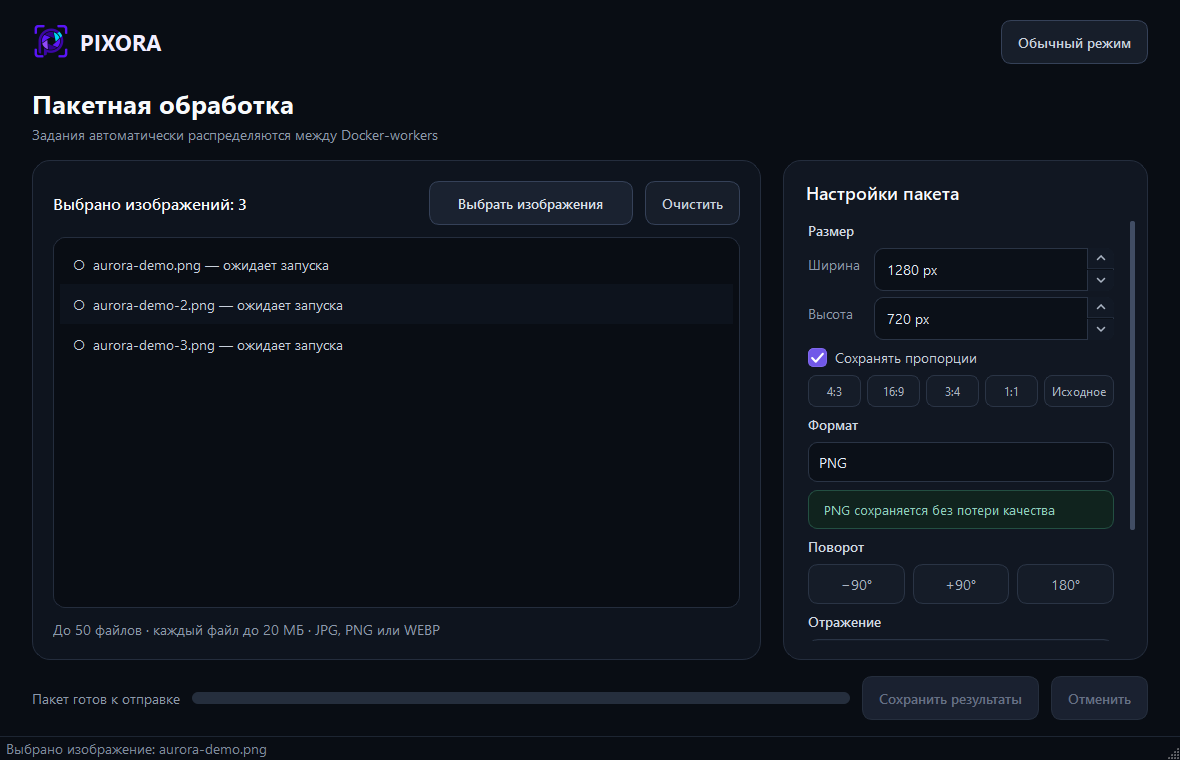
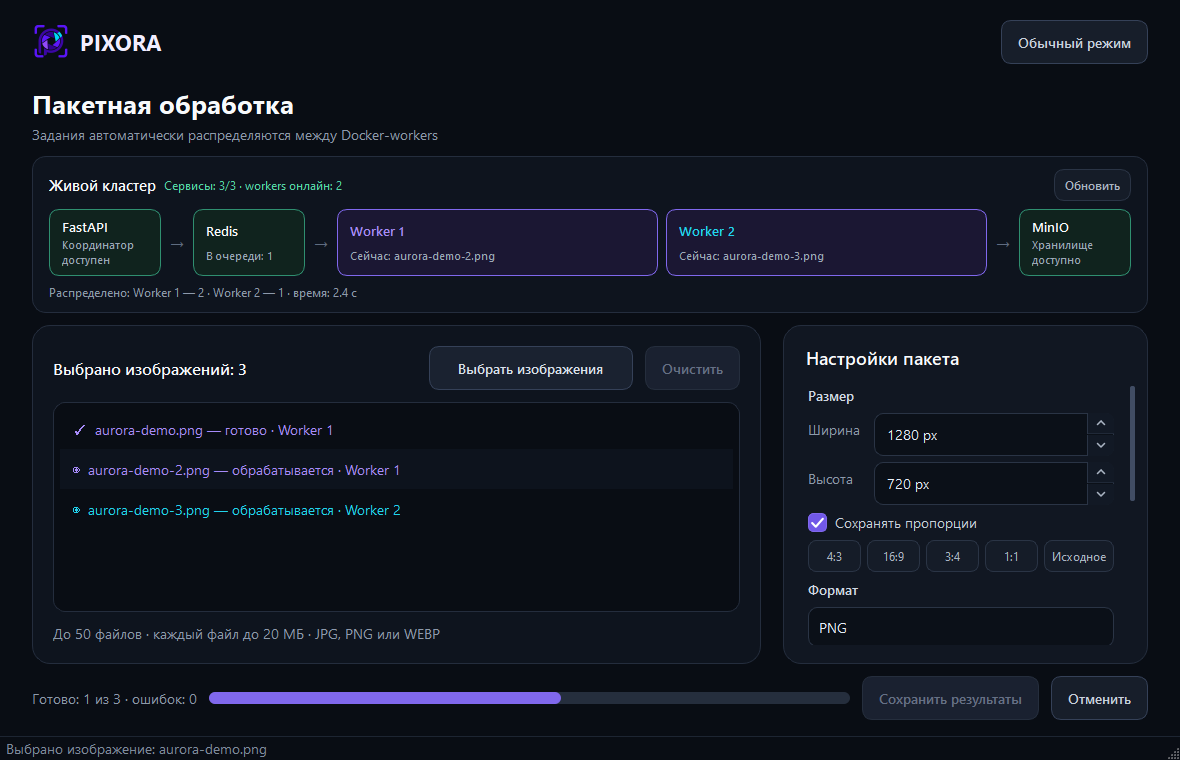
docs: добавил наглядную демонстрацию распределения

diff --git a/scripts/capture_screenshots.py b/scripts/capture_screenshots.py
@@ -3,6 +3,7 @@
 from pathlib import Path
 import sys
 from tempfile import TemporaryDirectory
+from time import monotonic
 
 from PIL import Image, ImageDraw, ImageOps
 from PySide6.QtWidgets import QApplication
@@ -96,6 +97,73 @@ def main() -> int:
             ).save(batch_source, format="PNG")
             batch_sources.append(batch_source)
         window.batch_panel.set_files(batch_sources)
+        window.batch_panel.set_batch_created(
+            {
+                "jobs": [
+                    {"job_id": "job-1"},
+                    {"job_id": "job-2"},
+                    {"job_id": "job-3"},
+                ]
+            }
+        )
+        window.batch_panel.set_processing(True)
+        window.batch_panel._started_at = monotonic() - 2.4
+        window.batch_panel.update_cluster_status(
+            {
+                "api": "online",
+                "redis": "online",
+                "minio": "online",
+                "queue_depth": 1,
+                "workers": [
+                    {
+                        "worker_id": "worker@container-a",
+                        "status": "busy",
+                        "active_tasks": 1,
+                        "active_job_ids": ["job-2"],
+                    },
+                    {
+                        "worker_id": "worker@container-b",
+                        "status": "busy",
+                        "active_tasks": 1,
+                        "active_job_ids": ["job-3"],
+                    },
+                ],
+            }
+        )
+        window.batch_panel.update_batch_status(
+            {
+                "total": 3,
+                "pending": 0,
+                "processing": 2,
+                "completed": 1,
+                "failed": 0,
+                "cancelled": 0,
+                "progress": 55,
+                "jobs": [
+                    {
+                        "job_id": "job-1",
+                        "filename": "aurora-demo.png",
+                        "status": "SUCCESS",
+                        "progress": 100,
+                        "worker": "worker@container-a",
+                    },
+                    {
+                        "job_id": "job-2",
+                        "filename": "aurora-demo-2.png",
+                        "status": "PROCESSING",
+                        "progress": 45,
+                        "worker": "worker@container-a",
+                    },
+                    {
+                        "job_id": "job-3",
+                        "filename": "aurora-demo-3.png",
+                        "status": "PROCESSING",
+                        "progress": 20,
+                        "worker": "worker@container-b",
+                    },
+                ],
+            }
+        )
         window.content_stack.setCurrentWidget(window.batch_panel)
         window.batch_mode_button.setText("Обычный режим")
         application.processEvents()

diff --git a/docs/distributed-processing.md b/docs/distributed-processing.md
@@ -13,6 +13,24 @@
 Каждое изображение является отдельной вычислительной задачей. Поэтому разные
 изображения одного пакета могут одновременно обрабатываться разными workers.
 
+## Что видно в приложении
+
+Экран пакетной обработки содержит живую схему
+`FastAPI → Redis → Workers → MinIO`. Данные берутся из работающего кластера:
+
+- зелёные карточки показывают доступные сервисы и свободные workers;
+- фиолетовая карточка означает, что worker выполняет задачу;
+- красная карточка означает потерю связи с сервисом или worker;
+- Redis показывает количество задач, ожидающих в очереди;
+- рядом с каждым файлом отображается назначенный `Worker 1`, `Worker 2` и так
+  далее;
+- после завершения показываются количество файлов на каждом worker и общее
+  время пакета.
+
+В подсказке карточки worker сохраняется его настоящий Celery-идентификатор.
+Поэтому понятное визуальное имя не скрывает техническое доказательство того,
+что задачи выполнялись разными контейнерами.
+
 ## Запуск локального кластера
 
 Из корня проекта:
@@ -86,6 +104,7 @@ Desktop-приложение по умолчанию обращается к
 ## HTTP API
 
 - `GET /health` — готовность Redis и MinIO;
+- `GET /api/v1/cluster` — состояние сервисов, очередь и активные workers;
 - `POST /api/v1/batches` — загрузка пакета и постановка задач в очередь;
 - `GET /api/v1/batches/{batch_id}` — общий прогресс и состояния файлов;
 - `POST /api/v1/batches/{batch_id}/cancel` — отмена незавершённых задач;
@@ -94,6 +113,17 @@ Desktop-приложение по умолчанию обращается к
 
 В ответе успешной задачи есть поле `worker`. Разные значения этого поля для
 одного пакета являются наглядным подтверждением распределения вычислений.
+
+## Демонстрация на защите
+
+1. Запустить кластер и убедиться, что в «Живом кластере» доступны два workers.
+2. Выбрать не менее восьми изображений и запустить пакетную обработку.
+3. Показать, как карточки workers переходят в состояние «занят», а строки
+   файлов получают разные назначения и цвета.
+4. После завершения показать итоговое распределение файлов между узлами.
+5. Для демонстрации отказоустойчивости остановить один worker и обновить
+   монитор: его карточка станет красной, а доступный узел продолжит забирать
+   задания из Redis.
 
 Отмена хранится в Redis, поэтому ожидающая задача останется отменённой даже в
 том случае, если worker был выключен во время запроса и подключился позднее.

diff --git a/README.md b/README.md
@@ -28,7 +28,8 @@
 - Drag & Drop и выбор файла через проводник;
 - предпросмотр результата перед сохранением;
 - обработка без зависания интерфейса;
-- пакетная обработка через FastAPI, Redis, Celery и несколько Docker-workers.
+- пакетная обработка через FastAPI, Redis, Celery и несколько Docker-workers;
+- живой монитор сервисов, очереди и распределения файлов между workers.
 
 ## Скачать и запустить
 
@@ -77,8 +78,11 @@ python main.py
 ```
 
 Каждое изображение становится отдельной задачей Celery, а Redis распределяет
-задачи между двумя независимыми workers. Подробная схема, API и масштабирование
-описаны в [документации распределённой обработки](docs/distributed-processing.md).
+задачи между двумя независимыми workers. Экран «Живой кластер» показывает
+доступность FastAPI, Redis и MinIO, глубину очереди, занятость каждого worker и
+итоговое число обработанных им файлов. Это позволяет наблюдать распределение
+вычислений прямо в приложении. Подробная схема, API и масштабирование описаны в
+[документации распределённой обработки](docs/distributed-processing.md).
 
 ![Распределённая пакетная обработка](docs/screenshots/pixora-batch.png)
 

diff --git a/CHANGELOG.md b/CHANGELOG.md
@@ -4,6 +4,8 @@
 
 - добавлена распределённая пакетная обработка через FastAPI, Redis, Celery и MinIO;
 - задания распределяются между несколькими Docker-workers;
+- добавлен живой монитор сервисов, очереди и загрузки каждого worker;
+- интерфейс показывает назначение файлов, статистику распределения и время;
 - реализованы статусы, прогресс, отмена и скачивание результатов в основном окне;
 - пакет сохраняет пропорции каждого изображения без искажений;
 - добавлены повторные попытки при временных сетевых сбоях;
